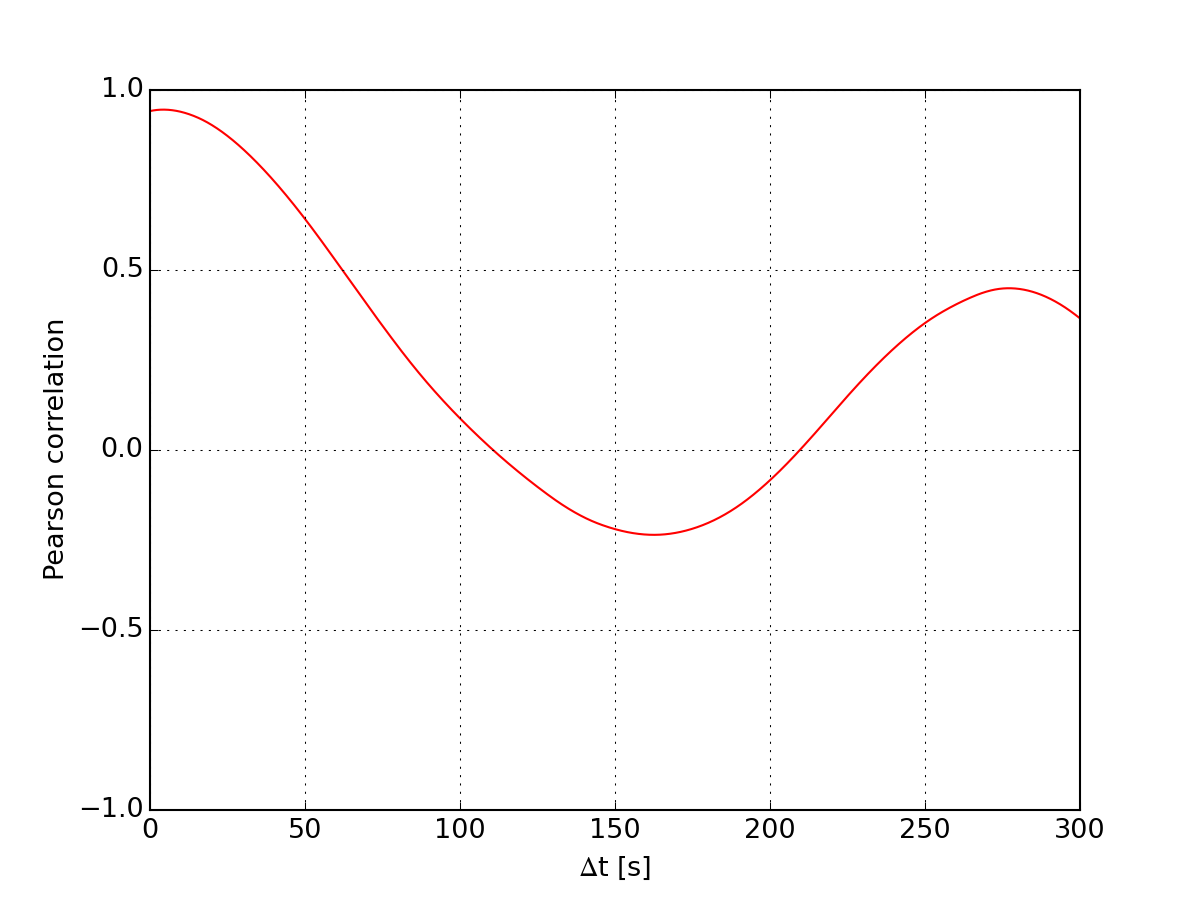
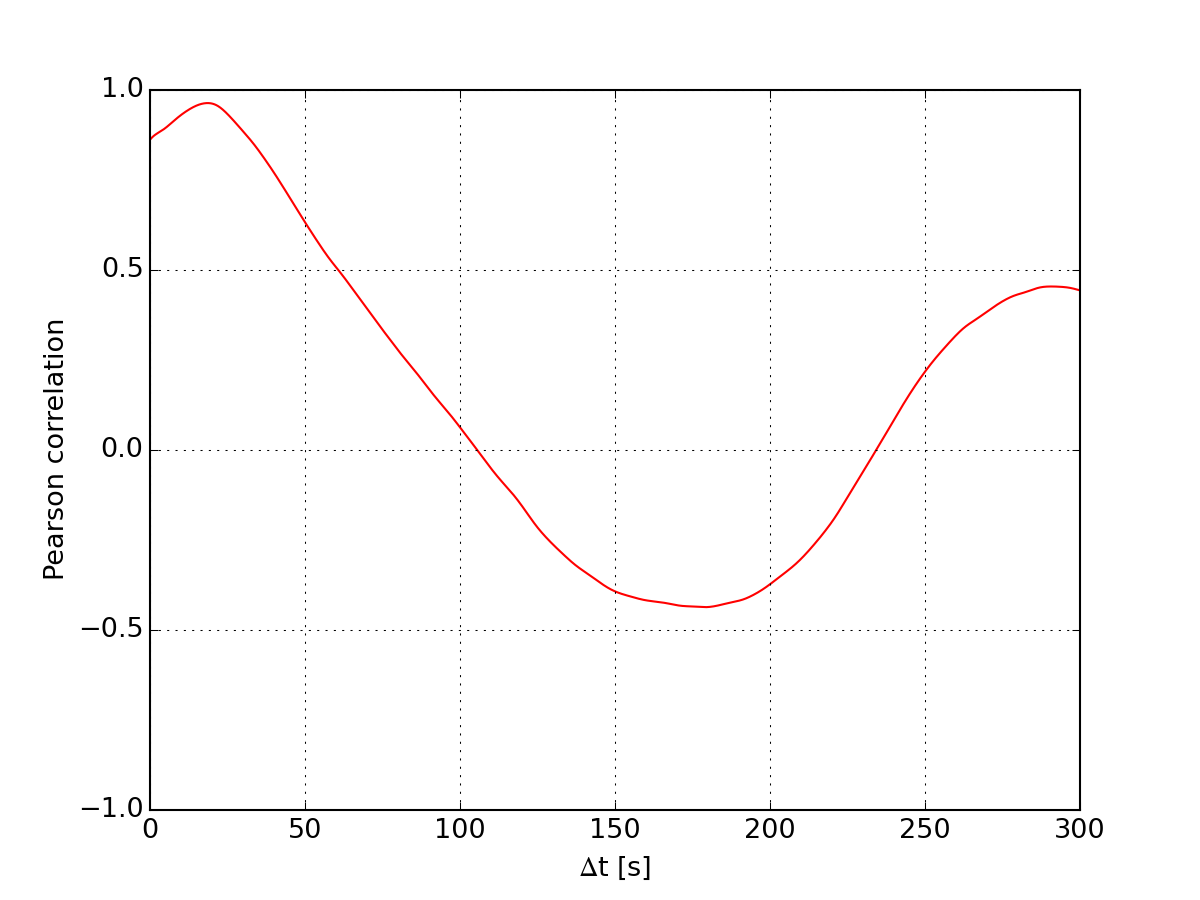
Fixed bug related to cross correlation analysis, please upgrade

diff --git a/scripts/ex08_velo_crosscorr.py b/scripts/ex08_velo_crosscorr.py
@@ -131,8 +131,8 @@ def apply_cross_correlation(prof_pic1, prof_pic2, dist_img, **kwargs):
     :param prof_pic2: second profile time series picture
     """
     # Integrate the profiles for each image (y axis in profile images)
-    icas1 = np.sum(prof_pic1.img, axis = 0)
-    icas2 = np.sum(prof_pic2.img, axis = 0)
+    icas1 = np.sum(prof_pic1.img, axis=0)
+    icas2 = np.sum(prof_pic2.img, axis=0)
     times = prof_pic1.time_stamps
     
     res = find_signal_correlation(icas1, icas2, times, **kwargs)
@@ -227,27 +227,18 @@ if __name__ == "__main__":
         prof_pic1, prof_pic2 = reload_profile_tseries_from_aa_list(aa_list,
                                                                    pcs1, pcs2,
                                                                    dist_img)
-    
-    from pandas import Series
-    icas1=np.sum(prof_pic1.img, axis = 0)
-    ts=prof_pic1.time_stamps
-    s0 = Series(icas1, ts)
-    s1 = Series(icas1, ts).resample("100L").interpolate("linear").dropna()
-    
+
     # Apply cross correlation analysis between the signals retrieved
     # between the two cross section lines which are stored as profile images           
     v, result = apply_cross_correlation(prof_pic1, prof_pic2, dist_img,
                                         cut_border_idx=10, 
                                         reg_grid_tres=100, 
                                         freq_unit="L", sigma_smooth=2,
-                                        plot=1) 
+                                        plot=0) 
     
     axes = plot_result(result, pcs1, pcs2, img)
     print "Retrieved plume velocity of v = %.2f m/s" %v
     
-    fig, ax = subplots(1,1)
-    s0.plot(ax=ax)
-    s1.plot(ax=ax)
     ### IMPORTANT STUFF FINISHED    
     if SAVEFIGS:
         for k in range(len(axes)):

diff --git a/pyplis/plumespeed.py b/pyplis/plumespeed.py
@@ -5,7 +5,7 @@ Module containing features related to plume velocity analysis
 from time import time
 from numpy import mgrid,vstack,int32,sqrt,arctan2,rad2deg, asarray, sin, cos,\
     logical_and, histogram, ceil, ones, roll, argmax, arange, ndarray,\
-    deg2rad, nan, inf, dot
+    deg2rad, nan, inf, dot, mean
 from numpy.linalg import norm
 from traceback import format_exc
 from warnings import warn
@@ -92,13 +92,19 @@ def find_signal_correlation(first_data_vec, next_data_vec,
                 freq_unit = "S"
                 
         delt_str = "%d%s" %(reg_grid_tres, freq_unit)
-        ax = Series(first_data_vec, time_stamps).plot()
         print "Delta t string for resampling: %s" %delt_str
-        s1 = Series(first_data_vec, time_stamps).resample(delt_str).\
-                                        interpolate(itp_method).dropna()
-        s2 = Series(next_data_vec, time_stamps).resample(delt_str).\
-                                        interpolate(itp_method).dropna()
-        s1.plot(ax=ax)
+        
+        s1 = Series(first_data_vec, time_stamps)
+        s2 = Series(next_data_vec, time_stamps)
+        # this try except block was inserted due to bug when using code in 
+        # exception statement with pandas > 0.19, it worked, though with 
+        # pandas v0.16
+        try:
+            s1 = s1.resample(delt_str).agg(mean).interpolate(itp_method).dropna()
+            s2 = s2.resample(delt_str).agg(mean).interpolate(itp_method).dropna()
+        except:
+            s1 = s1.resample(delt_str).interpolate(itp_method).dropna()
+            s2 = s2.resample(delt_str).interpolate(itp_method).dropna()
         lag_fac = (s1.index[10] - s1.index[9]).total_seconds()
     else:
         s1 = Series(first_data_vec)

diff --git a/CHANGELOG.rst b/CHANGELOG.rst
@@ -28,4 +28,11 @@ release (version 0.9.2)
   1. Included image check for negative numbers or zeros after dark image correction and before tau / AA image calculation: correction is directly applied to images (no warning), i.e. pixels <= 0 are set to smallest positive float of system.
   2. Removed bugs regarding image time stamps in MeasSetup and image match search in Dataset (when specifying start / stop time stamps are provided as time object and not as datetime object). These two bugs resulted from changes applied in 0.9.3.dev1 (1/3/2017) and are irrelevant for previous versions.
   
+05/03/2017
+==========
+
+.. note::
+
+  Detected and fixed bug related to signal cross correlation based plume velocity retrievals after pandas updgrade from 0.16.2 -> 0.19.2.
+  
   

diff --git a/README.rst b/README.rst
@@ -10,10 +10,6 @@ pyplis is a Python toolbox for the analysis of UV SO2 camera data. It includes a
 .. note::
 
   The software was renamed from **piscope** to **pyplis** on 17.02.2017 
-
-.. warning::
-
-  Detected problem with latest pandas versions (> 0.16) when resampling and interpolating data (for cross correlation based plume velocity analysis). Working on fix!
   
 Requirements
 ============

diff --git a/VERSION.rst b/VERSION.rst
@@ -1,1 +1,1 @@
-0.9.3.dev3
+0.10.1.dev1
